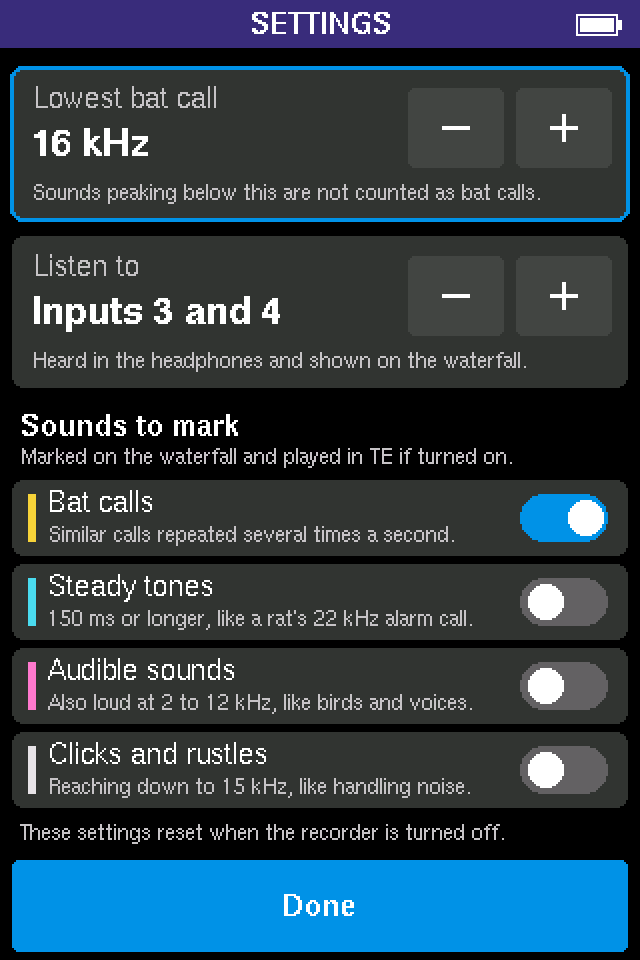
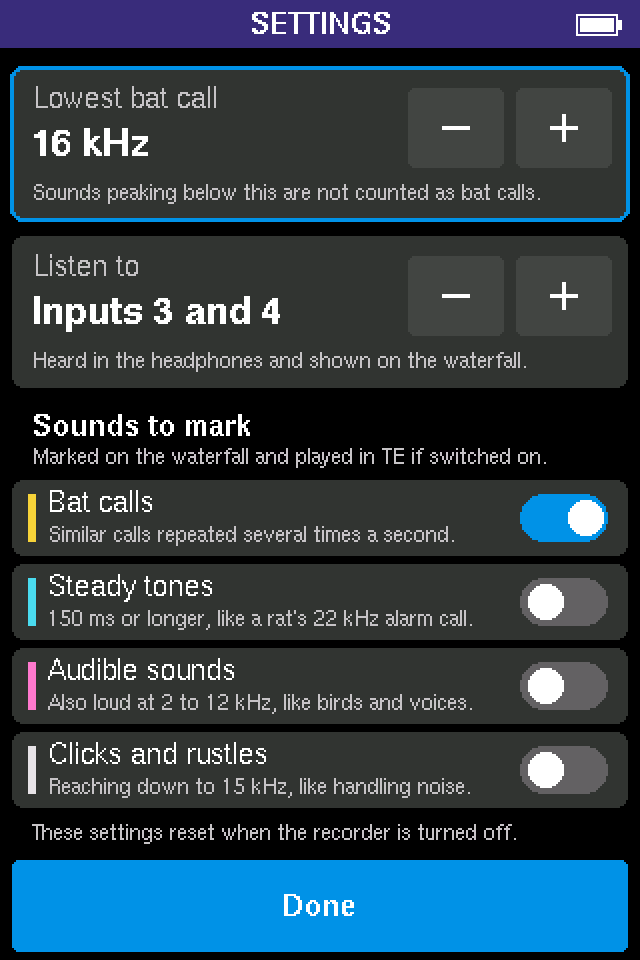
Marked sounds: ticks in their own strip, a tone's whole length
From a review of the new screens:
- Ticks for marked sounds move from the waterfall's bottom rows to a 6 px
  black strip under it (the waterfall loses 7 rows), so every tick colour
  shows against any spectrogram colour.
- The last-call panel's length for a steady tone is the whole tone so far,
  from the chain of pieces that made it a tone, counting pauses of up to 2 s,
  not its latest piece (which was shorter than the 150 ms in the switch's
  help line). Lengths of 1 s or more show in seconds. The classifier gets
  tone_start().
- With every sound switched off, the empty panel says where to switch them on.
- "if turned on" becomes "if switched on"; the new heading and notes line
  up with the text in the panels above.

Changed region(s): [[0.0312, 0.4375, 0.8438, 0.5], [0.0312, 0.8438, 0.8125, 0.875]]

diff --git a/crates/bat-app/src/screen.rs b/crates/bat-app/src/screen.rs
@@ -243,11 +243,11 @@ fn waterfall(app: &BatApp, fb: Fb) {
         Mode::Fd | Mode::Pitch => {}
     }
 
-    // Marked detections (ticks along the bottom, coloured by kind) and marks
-    // (along the top).
+    // Marked detections (ticks in the strip under the waterfall, coloured by
+    // kind) and marks (along the top).
     for (t, kind) in app.calls.iter() {
         if let Some(x) = sample_x(app, t) {
-            fill(fb, Rectangle::new(Point::new(x, WF_Y + WF_H as i32 - 5), Size::new(2, 5)), tick_colour(kind));
+            fill(fb, Rectangle::new(Point::new(x, TICKS_Y), Size::new(2, TICK_H as u32)), tick_colour(kind));
         }
     }
     for t in app.marks.iter() {
@@ -264,7 +264,7 @@ fn waterfall(app: &BatApp, fb: Fb) {
             break;
         }
         let tall = k % 2 == 0;
-        fill(fb, Rectangle::new(Point::new(x, WF_Y + WF_H as i32), Size::new(1, if tall { 4 } else { 2 })), LINE);
+        fill(fb, Rectangle::new(Point::new(x, TICKS_Y + TICK_H), Size::new(1, if tall { 4 } else { 2 })), LINE);
     }
     text(fb, &SMALL, "now", right, RULER_BASELINE, RIGHT, TEXT_MUTED);
     text(fb, &SMALL, "-1 s", right - px_per_s, RULER_BASELINE, CENTER, TEXT_MUTED);
@@ -283,8 +283,13 @@ fn snapshot(app: &BatApp, fb: Fb) {
     rounded(fb, SNAP_PANEL, 6, PANEL);
     let top = SNAP_PANEL.top_left.y;
     let Some((call, kind)) = app.last_call else {
-        let empty = if app.marked == 0 { "No sounds set to mark" } else { "No marked sounds yet" };
-        text(fb, &BODY, empty, SNAP_PANEL.center().x, top + 36, CENTER, TEXT_MUTED);
+        let cx = SNAP_PANEL.center().x;
+        if app.marked == 0 {
+            text(fb, &BODY, "No sounds set to mark", cx, top + 30, CENTER, TEXT_MUTED);
+            text(fb, &SMALL, "Open the menu at the top left to switch them on.", cx, top + 46, CENTER, TEXT_MUTED);
+        } else {
+            text(fb, &BODY, "No marked sounds yet", cx, top + 36, CENTER, TEXT_MUTED);
+        }
         return;
     };
     // The kind of detection, beside a swatch in its tick colour.
@@ -303,7 +308,8 @@ fn snapshot(app: &BatApp, fb: Fb) {
     text(fb, &SMALL, format_args!("{:.0} kHz", lo / 1000.0), SNAP_X + 2, SNAP_Y + SNAP_H as i32 - 2, LEFT, TEXT);
     let fs = app.sample_rate;
     let ago_s = app.samples.saturating_sub(call.end_sample) as f32 / fs;
-    let length_ms = (call.end_sample - call.start_sample) as f32 / fs * 1000.0;
+    // A steady tone's length is the whole tone so far, not its latest piece.
+    let length_ms = (call.end_sample - app.last_call_since) as f32 / fs * 1000.0;
     if ago_s < 60.0 {
         text(fb, &SMALL, format_args!("{:.0} s ago", libm::floorf(ago_s)), 308, top + 12, RIGHT, TEXT_MUTED);
     } else {
@@ -322,7 +328,11 @@ fn snapshot(app: &BatApp, fb: Fb) {
     } else {
         text(fb, &BODY, format_args!("{lo:.0}-{hi:.0} kHz"), SNAP_VALUE_X, y2, LEFT, TEXT);
     }
-    text(fb, &BODY, format_args!("{length_ms:.1} ms"), SNAP_VALUE_X, y3, LEFT, TEXT);
+    if length_ms >= 1000.0 {
+        text(fb, &BODY, format_args!("{:.1} s", length_ms / 1000.0), SNAP_VALUE_X, y3, LEFT, TEXT);
+    } else {
+        text(fb, &BODY, format_args!("{length_ms:.1} ms"), SNAP_VALUE_X, y3, LEFT, TEXT);
+    }
 }
 
 fn value_line(app: &BatApp, fb: Fb) {
@@ -471,9 +481,10 @@ fn settings(app: &BatApp, fb: Fb) {
             }
         }
     }
-    text(fb, &BODY_BOLD, "Sounds to mark", 10, SWITCHES_HEADING, LEFT, TEXT);
-    text(fb, &SMALL, "Marked on the waterfall and played in TE if turned on.", 10, SWITCHES_HELP, LEFT, TEXT_MUTED);
-    text(fb, &SMALL, "These settings reset when the recorder is turned off.", 10, SETTINGS_NOTE, LEFT, TEXT_MUTED);
+    // Lined up with the text in the panels above.
+    text(fb, &BODY_BOLD, "Sounds to mark", 16, SWITCHES_HEADING, LEFT, TEXT);
+    text(fb, &SMALL, "Marked on the waterfall and played in TE if switched on.", 16, SWITCHES_HELP, LEFT, TEXT_MUTED);
+    text(fb, &SMALL, "These settings reset when the recorder is turned off.", 16, SETTINGS_NOTE, LEFT, TEXT_MUTED);
     rounded(fb, DONE, 4, ACCENT);
     text(fb, &BODY_BOLD, "Done", DONE.center().x, DONE.top_left.y + 28, CENTER, TEXT);
 }

diff --git a/crates/bat-dsp/src/classify.rs b/crates/bat-dsp/src/classify.rs
@@ -139,6 +139,8 @@ struct Piece {
 #[derive(Clone, Copy, Debug)]
 struct Tone {
     freq_hz: f32,
+    /// Start of the chain of pieces that made it a tone.
+    start: u64,
     /// End of its latest piece.
     end: u64,
 }
@@ -160,6 +162,11 @@ pub struct CallClassifier {
     pieces: [Option<Piece>; PIECES],
     next_piece: usize,
     tones: [Option<Tone>; TONES],
+    /// Start of the tone the latest detection belongs to, if it is a piece
+    /// of one.
+    tone_since: u64,
+    /// The latest detection was a piece of a steady tone.
+    last_was_tone: bool,
 }
 
 impl CallClassifier {
@@ -181,6 +188,8 @@ impl CallClassifier {
             pieces: [None; PIECES],
             next_piece: 0,
             tones: [None; TONES],
+            tone_since: 0,
+            last_was_tone: false,
         };
         c.set_train_window_s(DEFAULT_TRAIN_WINDOW_S);
         c
@@ -227,11 +236,21 @@ impl CallClassifier {
         self.pieces = [None; PIECES];
         self.next_piece = 0;
         self.tones = [None; TONES];
+        self.last_was_tone = false;
+    }
+
+    /// When the latest detection was a piece of a steady tone, where the tone
+    /// started: the first piece of the chain that made it a tone. Pauses of
+    /// up to 2 s, after which pieces still count as the same tone, are
+    /// included.
+    pub fn tone_start(&self) -> Option<u64> {
+        self.last_was_tone.then_some(self.tone_since)
     }
 
     /// Classify the next detection. Detections must come in time order.
     pub fn classify(&mut self, event: &CallEvent) -> Verdict {
-        let kind = if self.is_tone(event) {
+        self.last_was_tone = self.is_tone(event);
+        let kind = if self.last_was_tone {
             CallKind::Tone
         } else if event.min_freq_hz <= self.band_lo_hz + EDGE_MARGIN_HZ {
             CallKind::Broadband
@@ -289,6 +308,7 @@ impl CallClassifier {
             if start.saturating_sub(t.end) <= self.tone_hold && (t.freq_hz - peak).abs() <= TONE_FREQ_HZ {
                 t.freq_hz = peak;
                 t.end = t.end.max(end);
+                self.tone_since = t.start;
                 tone = true;
                 break;
             }
@@ -316,7 +336,8 @@ impl CallClassifier {
                 let slot = (0..TONES)
                     .min_by_key(|&i| self.tones[i].map_or(0, |t| t.end + 1))
                     .unwrap_or(0);
-                self.tones[slot] = Some(Tone { freq_hz: peak, end });
+                self.tones[slot] = Some(Tone { freq_hz: peak, start: chain_start, end });
+                self.tone_since = chain_start;
             }
             tone = true;
             // The chain's earlier pieces can no longer start a train.
@@ -397,11 +418,14 @@ mod tests {
         let bats = kinds.iter().filter(|&&k| k == CallKind::Bat).count();
         assert!(bats <= 4, "{kinds:?}");
         assert!(kinds[5..].iter().all(|&k| k == CallKind::Tone), "{kinds:?}");
-        // After a pause of 1 s the tone carries on, slightly lower: still a
-        // tone from its first piece.
+        // The tone has lasted from its first piece.
+        assert_eq!(c.tone_start(), Some((1.0 * FS) as u64));
+        // After a pause of 1 s the tone carries on, slightly lower: still the
+        // same tone from its first piece.
         for e in pieces(3.0, 3.5, 30.0, 35.0, 21.3) {
             assert_eq!(c.classify(&e).kind, CallKind::Tone);
         }
+        assert_eq!(c.tone_start(), Some((1.0 * FS) as u64));
         // A bat sweeping through the same frequencies is still a bat.
         c.classify(&call(3.6, 25.0, 25.0));
         assert_eq!(c.classify(&call(3.7, 25.0, 25.0)).kind, CallKind::Bat);

diff --git a/crates/bat-app/src/lib.rs b/crates/bat-app/src/lib.rs
@@ -271,6 +271,9 @@ pub struct BatApp<'a> {
     calls: Recent<(u64, CallKind)>,
     marks: Recent<u64>,
     last_call: Option<(CallEvent, CallKind)>,
+    /// Where the last call's length is measured from: its start, or for a
+    /// steady tone, the start of the tone.
+    last_call_since: u64,
 
     /// Waterfall levels (0 to 255), one column of `WF_H` per `WF_COLUMN_MS`,
     /// column-major, as a ring: `wf_next` is the oldest column.
@@ -341,6 +344,7 @@ impl<'a> BatApp<'a> {
             calls: Recent::new((0, CallKind::Bat)),
             marks: Recent::new(0),
             last_call: None,
+            last_call_since: 0,
             wf: [0; WF_W * WF_H],
             wf_next: 0,
             wf_column: 0,
@@ -670,6 +674,7 @@ impl<'a> BatApp<'a> {
             mono,
             calls,
             last_call,
+            last_call_since,
             wf,
             wf_next,
             wf_column,
@@ -700,6 +705,7 @@ impl<'a> BatApp<'a> {
                     }
                     calls.push((event.start_sample, verdict.kind));
                     *last_call = Some((event, verdict.kind));
+                    *last_call_since = classifier.tone_start().unwrap_or(event.start_sample);
                     *snapshot_hz = build_snapshot(&event, *sample_rate, history, history_centre, snapshot);
                     *detected = true;
                 }

diff --git a/crates/bat-app/src/layout.rs b/crates/bat-app/src/layout.rs
@@ -25,11 +25,15 @@ pub const METER_MIN_DB: f32 = -72.0;
 
 /// Waterfall: time runs right to left, newest at the right edge, one pixel
 /// column per 10 ms (2.9 s across). Frequency runs up, 15 to 96 kHz, about
-/// one 375 Hz FFT bin per pixel row.
+/// one 375 Hz FFT bin (384 Hz) per pixel row.
 pub const WF_X: i32 = 28;
 pub const WF_Y: i32 = 98;
 pub const WF_W: usize = 288;
-pub const WF_H: usize = 218;
+pub const WF_H: usize = 211;
+/// Strip under the waterfall for the ticks of marked sounds, on black, so
+/// every tick colour shows whatever the waterfall's colours are.
+pub const TICKS_Y: i32 = WF_Y + WF_H as i32 + 1;
+pub const TICK_H: i32 = 6;
 /// Time labels under the waterfall.
 pub const RULER_BASELINE: i32 = 328;
 
